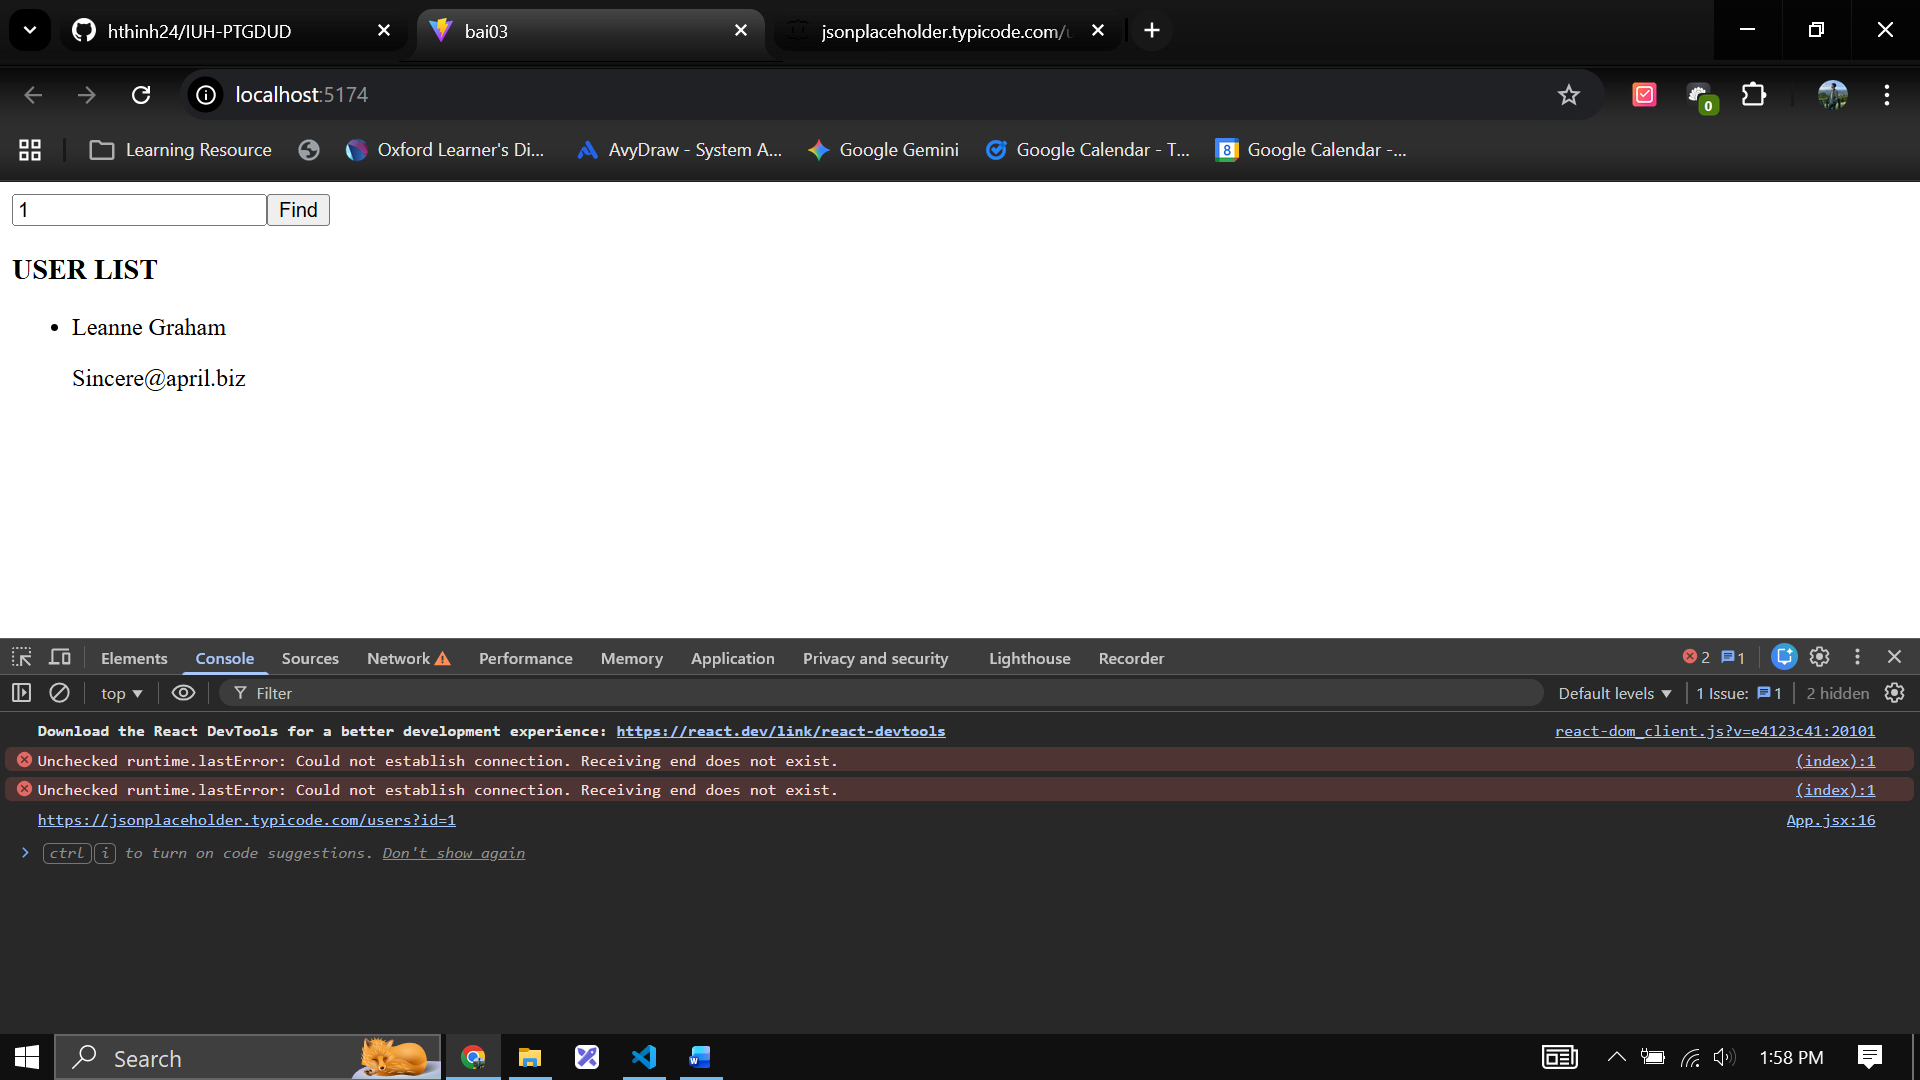
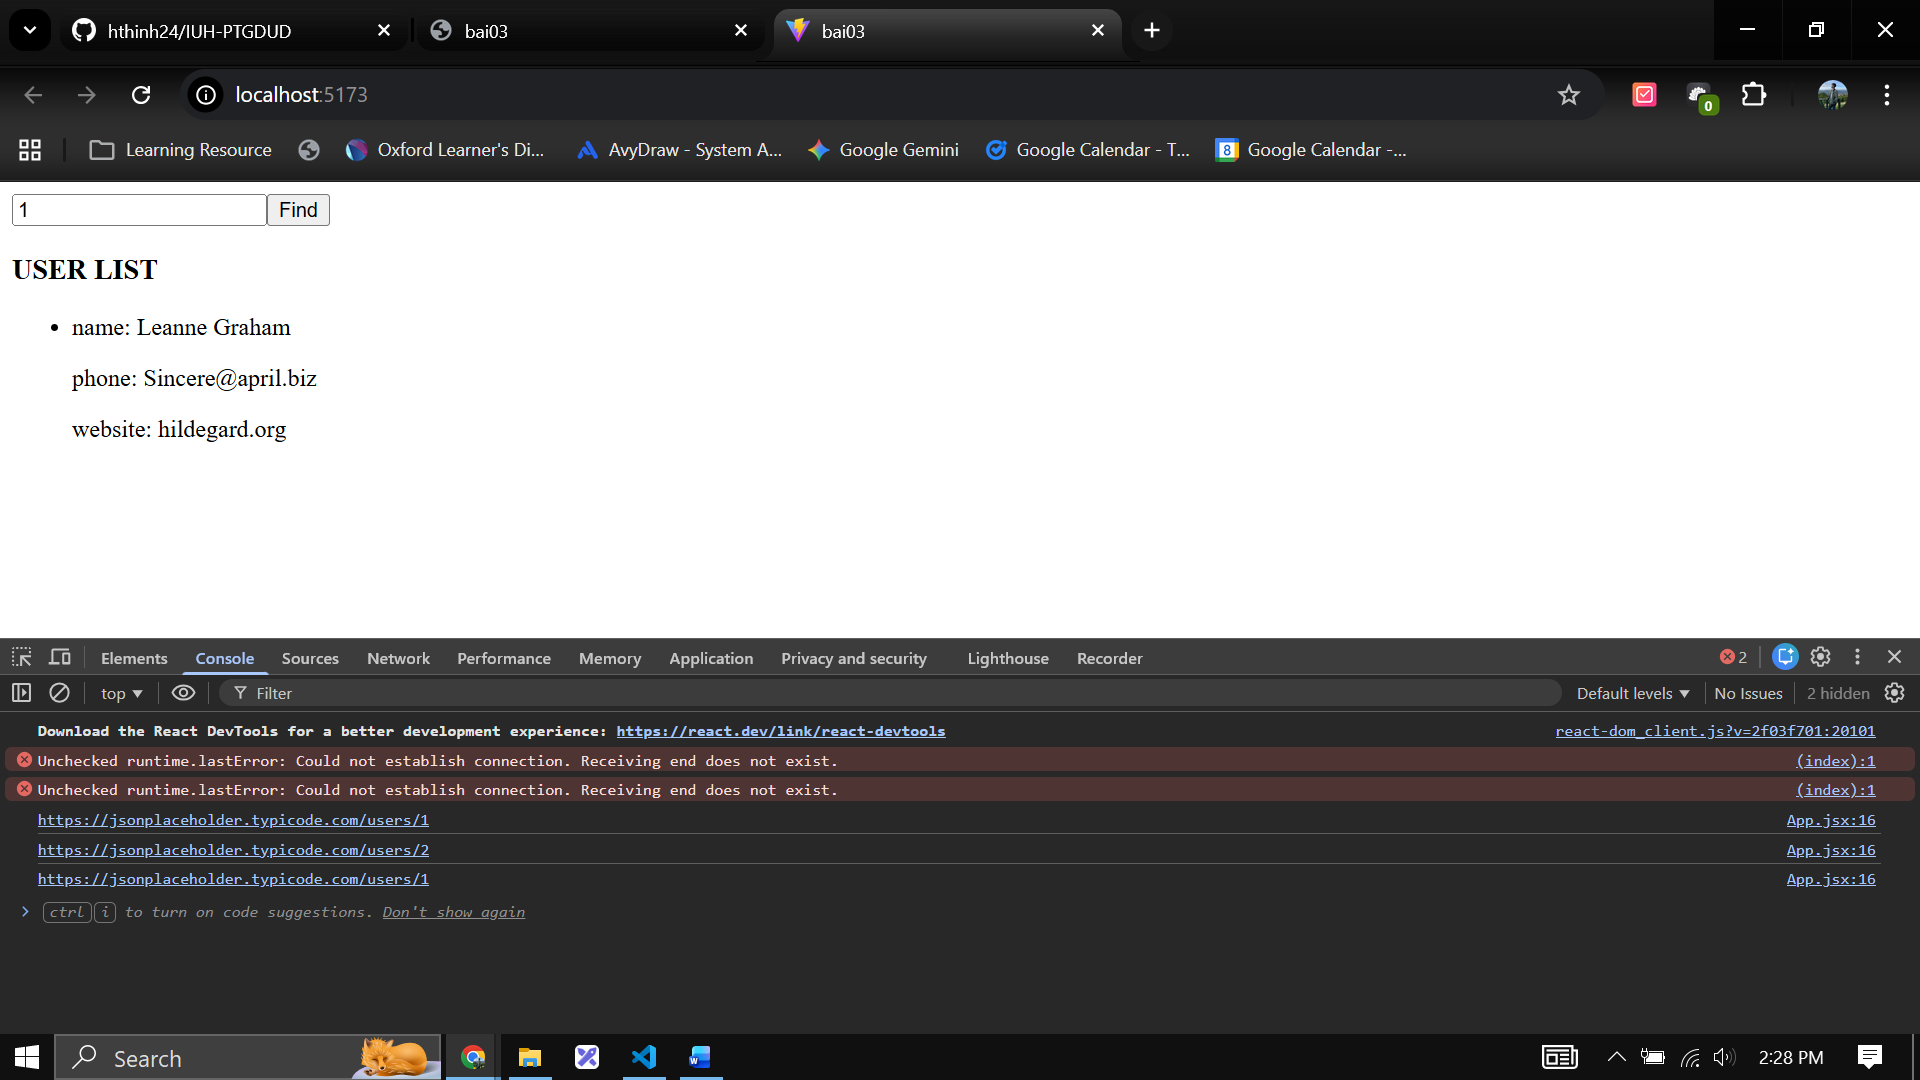
tuan04: update bai03

diff --git a/tuan04/bai03/src/App.jsx b/tuan04/bai03/src/App.jsx
@@ -3,34 +3,56 @@ import React, { useEffect, useState } from 'react'
 const App = () => {
 
   const [inputId, setInputId] = useState("")
-  const [users, setUsers] = useState([])
-  const [isLoading, setIsLoading] = useState(false)
+  const [user, setUser] = useState([])
+  const [isLoading, setIsLoading] = useState(true)
+  const [isError, setError] = useState(false)
 
   useEffect(() => {
+    if (!inputId) {
+      return
+    }
 
-  }, [])
-
-  function handleOnClick() {
-    setIsLoading(true)
-    const url = "https://jsonplaceholder.typicode.com/users" + "?id=" + inputId
+    const url = "https://jsonplaceholder.typicode.com/users/" + inputId
     console.log(url)
     const response = fetch(url)
     response
       .then(res => res.json())
       .then(data => {
-        setUsers(data)
+        setUser(data)
         setIsLoading(false)
+        setError(false)
       })
-      .catch(err => console.log(err))
+      .catch(err => {
+        setError(true)
+        console.log("err: " + err)
+      })
+  }, [inputId])
+
+  function handleOnClick() {
+    const newId = document.getElementById('input').value
+    if (newId == inputId) {
+      return
+    }
+
+    if (newId >= 1 && newId <= 10) {
+      setIsLoading(true)
+      setError(false)
+    } else {
+      alert("Dữ liệu nhập phải là số trong khoảng 1 - 10")
+    }
+
+    setInputId(newId)
+  }
+
+  if (isError) {
+    return <p>Erorrrrrrrrrrrrrrrr</p>
   }
 
   return (
     <div>
-      <input
+      <input id="input"
         type="text"
         placeholder="Enter user ID"
-        value={inputId}
-        onChange={(e) => setInputId(e.target.value)}
       />
       <button onClick={() => { handleOnClick() }}>Find</button>
 
@@ -40,12 +62,11 @@ const App = () => {
         <p>Loading...</p>
       ) : (
         <ul>
-          {users.map(user => (
-            <li key={user.id}>
-              <p>{user.name}</p>
-              <p>{user.email}</p>
-            </li>
-          ))}
+          <li key={user.id}>
+            <p>name: {user.name}</p>
+            <p>phone: {user.email}</p>
+            <p>website: {user.website}</p>
+          </li>
         </ul>
       )}
     </div>
